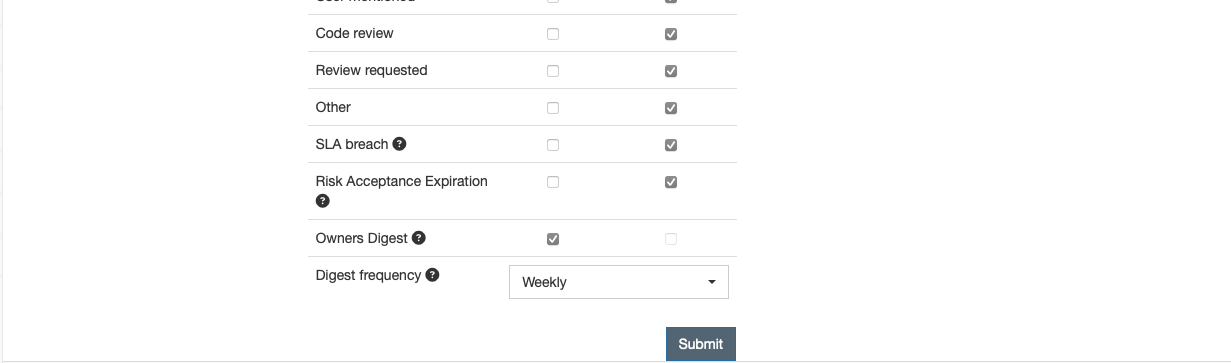
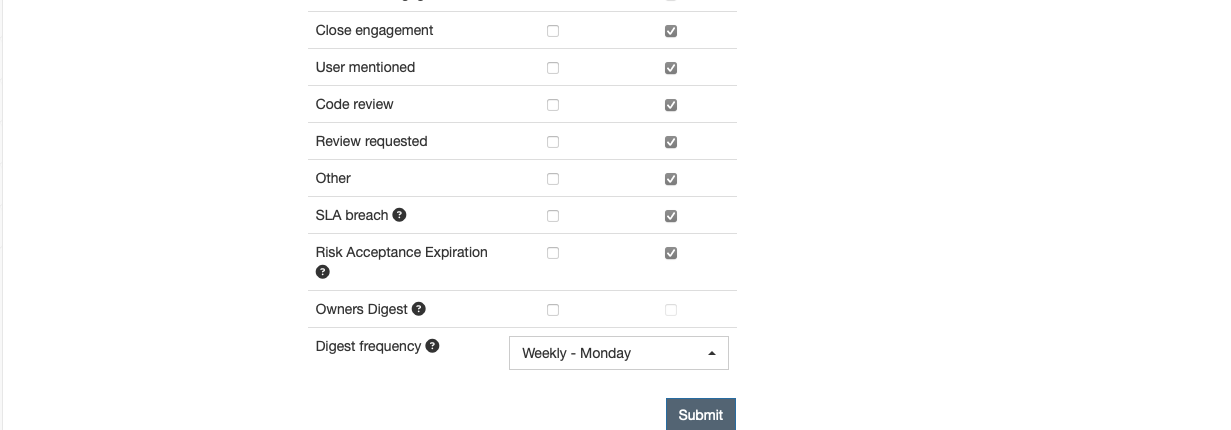
update cadence

diff --git a/proprietary_plugins/02_pro/general_enhancements.md b/proprietary_plugins/02_pro/general_enhancements.md
@@ -48,10 +48,18 @@ To enable this type of notification, email base notifications must first be enab
 
 #### Cadence
 
-Notifications can be sent on three schedules:
+Notifications are sent out at 9:00 AM within the timezone that is set within your DefectDojo server. Frequency
+of the these notifications can be set according to the following:
 - Daily
-- Weekly
-- Monthly
+- Weekly - Monday
+- Weekly - Tuesday
+- Weekly - Wednesday
+- Weekly - Thursday
+- Weekly - Friday
+- Weekly - Saturday
+- Weekly - Sunday
+- Monthly - 1st of the month
+- Monthly - 15th of the month
 
 #### Email Contents
 
